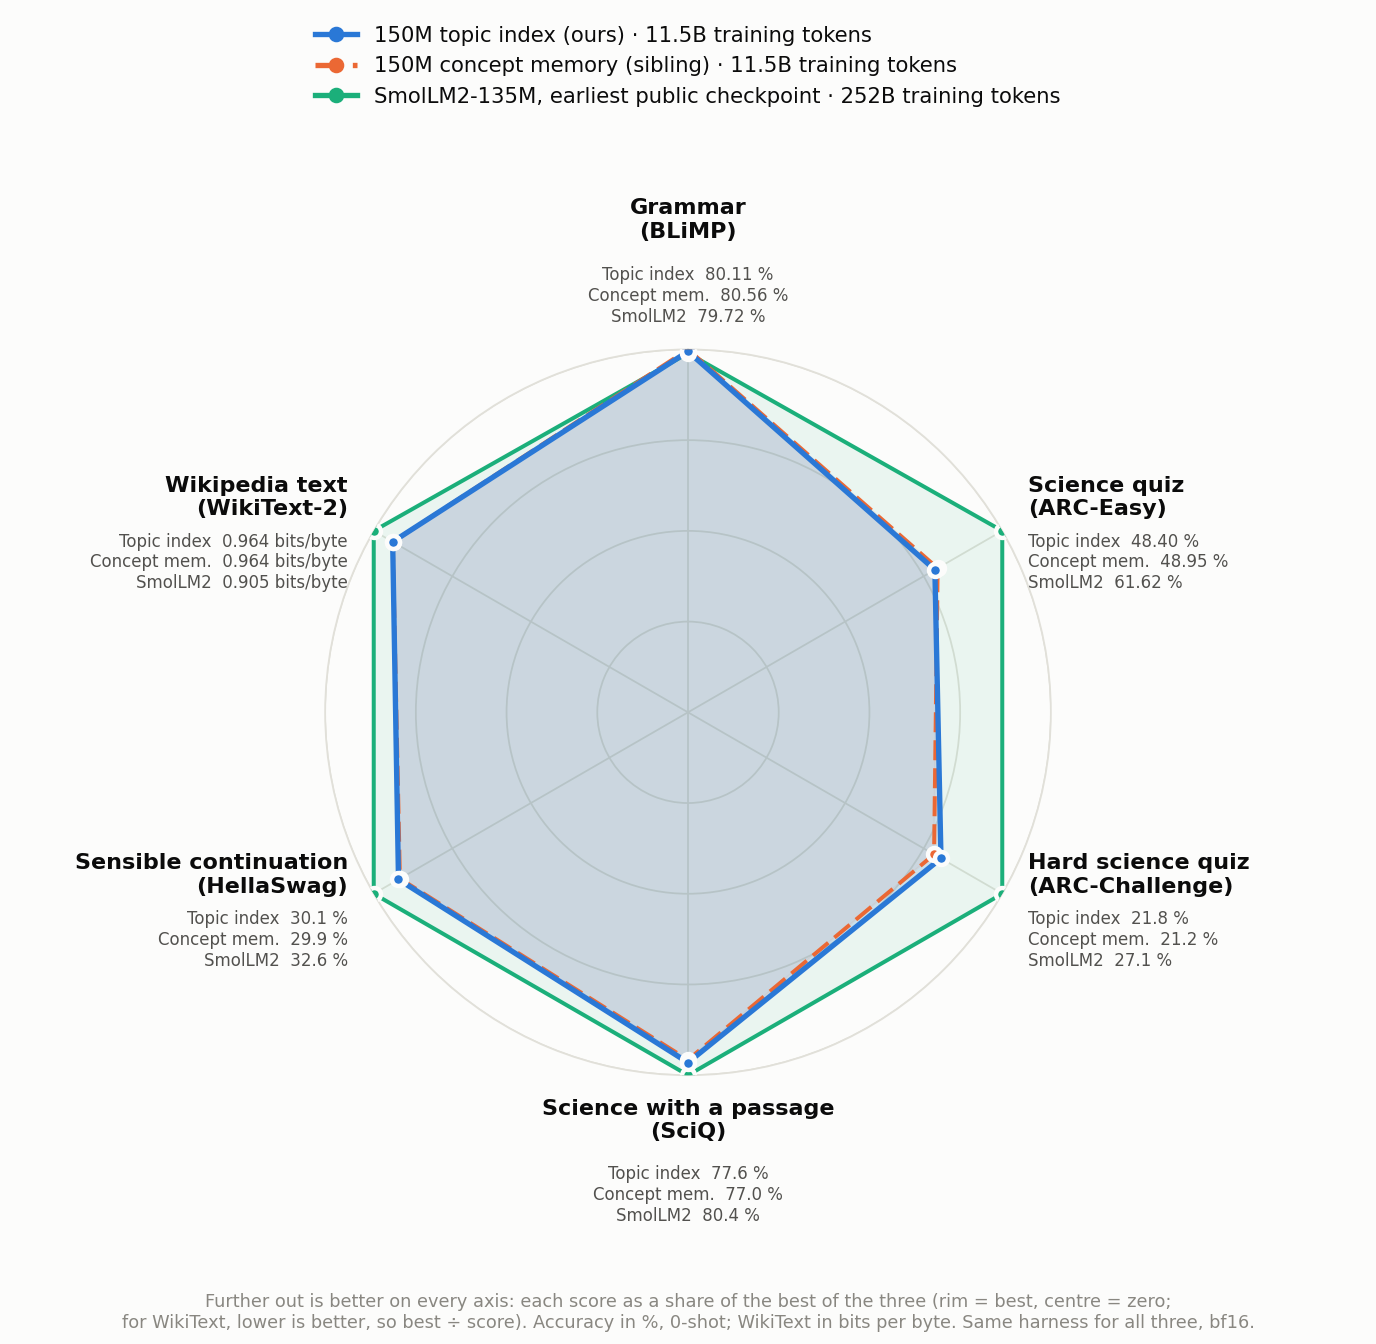
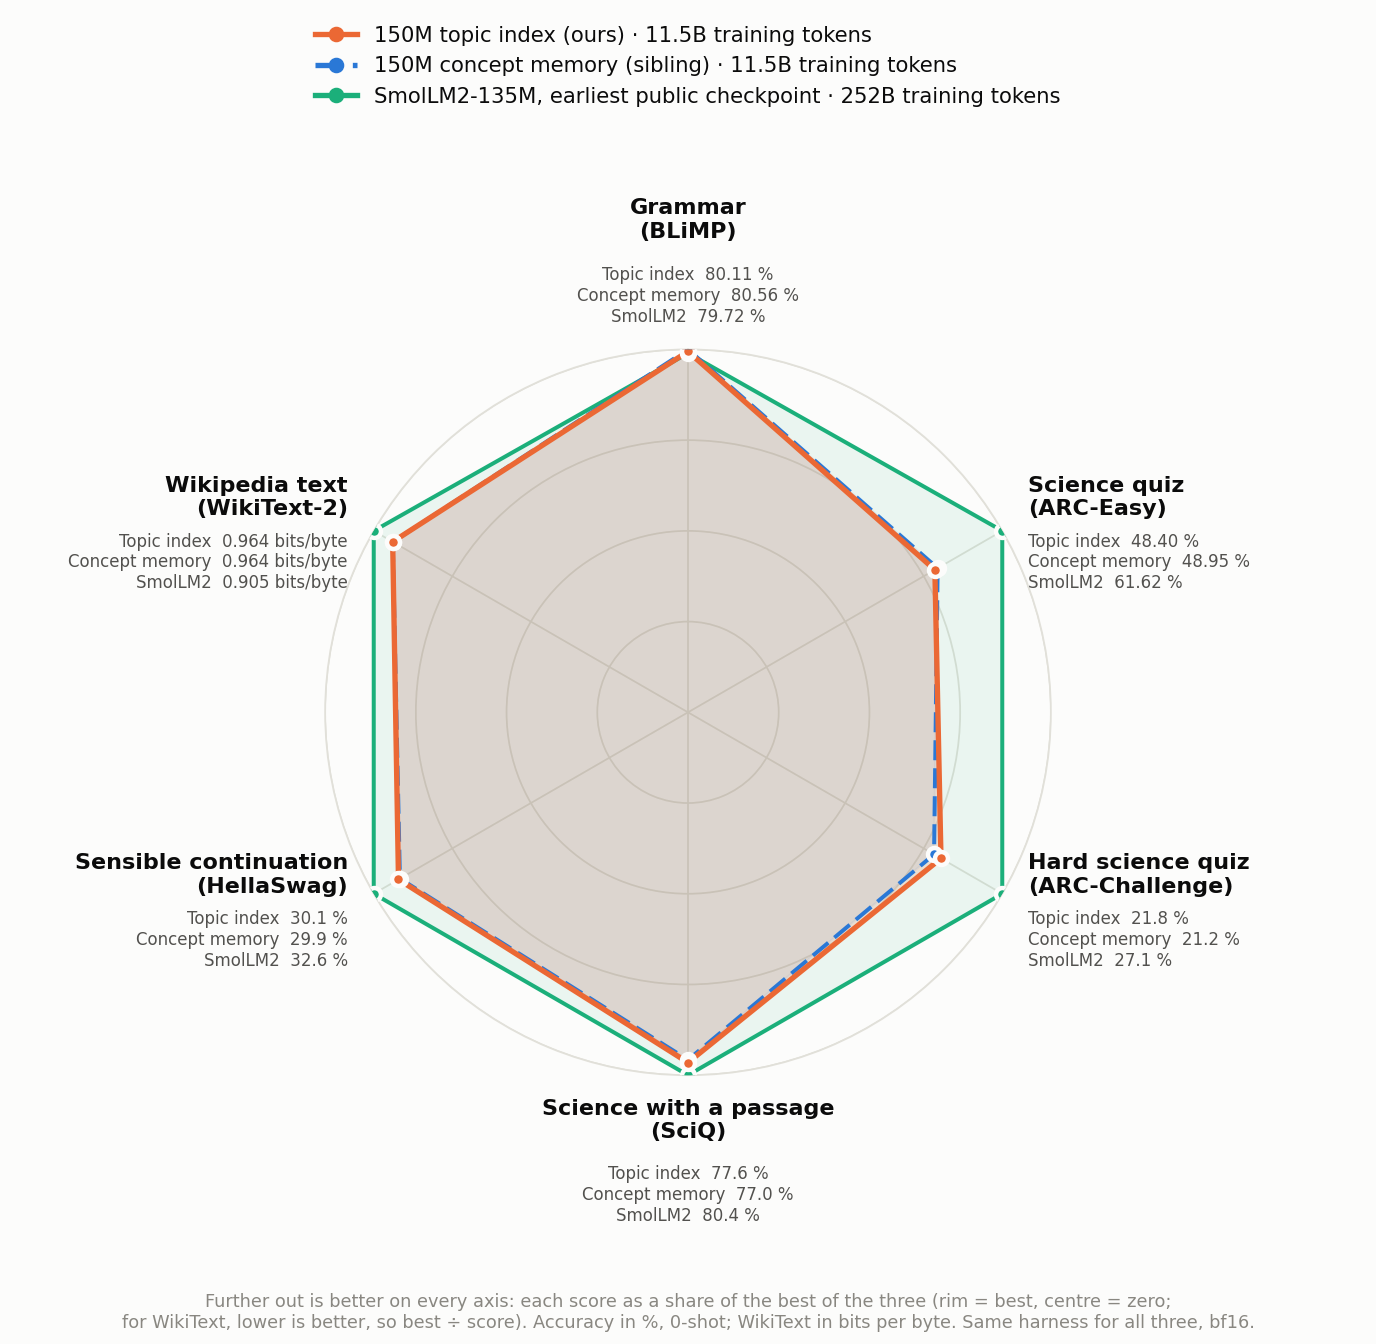
Shared figure script for both 150M cards: one colour per model (concept memory blue, topic index orange), ours solid, sibling dashed

diff --git a/docs/release/hf_card_topic_index_150m/figures/make_figures.py b/docs/release/hf_card_topic_index_150m/figures/make_figures.py
@@ -1,9 +1,12 @@
-"""Figures for the 150M topic index model card, drawn from the result files next to the card.
+"""Figures for the two sibling 150M model cards (concept memory, topic index), drawn from the result files next to
+the card. The same script ships with both cards; only CARD below differs.
 
-    python figures/make_figures.py          (from docs/release/hf_card_topic_index_150m)
+    python figures/make_figures.py          (from the card's folder)
 
-Same forms and settings as the sibling card (docs/release/hf_card_concept_memory_150m/figures/make_figures.py); here
-the topic index (our LSA model) is "ours" and its sibling, the 150M concept memory, is the second highlighted model.
+In each card "ours" is that card's model (solid line) and the other 150M model is its sibling (dashed); the two
+trained on the same data, in the same order, for the same budget, and differ only in the reading layer. Each model keeps
+one colour on every chart of both cards: concept memory blue, topic index orange, SmolLM2-135M aqua, other references
+grey (the dataviz skill's first three categorical slots, validated all-pairs on the light surface, 2026-11-18).
 
 radar.png        ours, the 150M concept memory and SmolLM2-135M at its earliest public checkpoint (~252B tokens) on
                  six standard benchmarks. Each axis is the model's score as a share of the best of the three (rim =
@@ -20,8 +23,8 @@ data_eff.png     score against training tokens (log scale): Pythia-160M's and Sm
                  (scored by us, same harness) and our two 150M models at 11.5B tokens.
 
 Colour follows the model on every chart: ours blue, the concept memory orange, SmolLM2-135M aqua, other references
-grey (the dataviz skill's first three categorical slots, validated all-pairs on the light surface, 2026-11-18).
-All numbers come from eval_results/, long_context/ and ruler/.
+All numbers come from eval_results/, long_context/ and ruler/: this card's model under plain names (ruler_*,
+compare_ours.json, e38_*), the sibling's with a cm_ / ti_ prefix (compare_concept_memory.json / compare_topic_index.json).
 """
 from __future__ import annotations
 
@@ -45,17 +48,23 @@ from summarise_compare import load as load_long, pooled  # noqa: E402
 
 SURFACE, INK, INK2, MUTED, GRID = "#fcfcfb", "#0b0b0b", "#52514e", "#898781", "#e1e0d9"
 BLUE, ORANGE, AQUA = "#2a78d6", "#eb6834", "#1baf7a"
-OURS = dict(name="150M topic index (ours)", board="e38_lsa150m_final", core7="e38_lsa150m_core7", long="compare_ours.json",
-            ruler="ruler_", tokens=11.5e9, color=BLUE, short="Topic index")
-SIB = dict(name="150M concept memory (sibling)", board="e38_mem150m_final", core7="e38_mem150m_core7",
-           long="compare_concept_memory.json", ruler="cm_ruler_", tokens=11.5e9, color=ORANGE, short="Concept mem.")
+CARD = "topic_index"  # this card's model: "topic_index" or "concept_memory" (the one line that differs between the cards)
+MODELS = {"concept_memory": dict(name="150M concept memory", board="e38_mem150m_final", core7="e38_mem150m_core7",
+                                 color=BLUE, short="Concept memory", prefix="cm_", file="compare_concept_memory.json",
+                                 ramp=["#f0f4fa", "#9ec5f4", "#3987e5", "#184f95"]),
+          "topic_index": dict(name="150M topic index", board="e38_lsa150m_final", core7="e38_lsa150m_core7",
+                              color=ORANGE, short="Topic index", prefix="ti_", file="compare_topic_index.json",
+                              ramp=["#fdf0e9", "#f6b896", "#eb6834", "#a3401b"])}
+_o, _s = MODELS[CARD], MODELS["concept_memory" if CARD == "topic_index" else "topic_index"]
+OURS = dict(_o, name=_o["name"] + " (ours)", long="compare_ours.json", ruler="ruler_", tokens=11.5e9)
+SIB = dict(_s, name=_s["name"] + " (sibling)", long=_s["file"], ruler=_s["prefix"] + "ruler_", tokens=11.5e9)
 SMOL = dict(name="SmolLM2-135M, earliest public checkpoint", board="ref_smollm2_135m_step240k_board",
             core7="ref_smollm2_135m_step240k_core7", tokens=240_000 * 1_048_576, color=AQUA, short="SmolLM2")
 SMOL_FINAL = dict(name="SmolLM2-135M", board="ref_smollm2_135m_board", tokens=2.0e12, color=AQUA)
 PYTH = dict(name="Pythia-160M", tokens=299.9e9, color=MUTED)
 # the long-document chart: (file, label, parameters, training tokens as reported, colour or None for grey)
-LONG = [("compare_ours.json", "Topic index (ours)", "141.5M", "11.5B", BLUE),
-        ("compare_concept_memory.json", "Concept memory (sibling)", "141.5M", "11.5B", ORANGE),
+LONG = [(OURS["long"], OURS["name"].replace("150M ", "").capitalize(), "141.5M", "11.5B", OURS["color"]),
+        (SIB["long"], SIB["name"].replace("150M ", "").capitalize(), "141.5M", "11.5B", SIB["color"]),
         ("compare_smollm2_step240k.json", "SmolLM2-135M, 252B checkpoint", "135M", "252B", None),
         ("compare_smollm2.json", "SmolLM2-135M final", "135M", "≈2T", None),
         ("compare_pythia.json", "Pythia-160M", "162M", "300B", None),
@@ -255,7 +264,7 @@ def ruler_heat() -> None:
     Ls = sorted(ours)
     M = np.array([[ours[x][t] for x in Ls] for t, _ in RULER_TASKS])
     fig, ax = plt.subplots(figsize=(5.6, 5.2))
-    cmap = matplotlib.colors.LinearSegmentedColormap.from_list("blue", ["#f0f4fa", "#9ec5f4", "#3987e5", "#184f95"])
+    cmap = matplotlib.colors.LinearSegmentedColormap.from_list("ours", OURS["ramp"])  # one hue: this model's colour
     ax.imshow(M, cmap=cmap, vmin=0, vmax=1, aspect="auto")
     for i in range(M.shape[0]):
         for j in range(M.shape[1]):
@@ -268,7 +277,7 @@ def ruler_heat() -> None:
     ax.tick_params(length=0)
     for sp in ax.spines.values():
         sp.set_visible(False)
-    ax.set_title("RULER, 150M topic index: share of expected answers found", fontsize=9.5, color=INK, loc="left")
+    ax.set_title(f"RULER, {_o['name']}:\nshare of expected answers found", fontsize=9.5, color=INK, loc="left")
     fig.tight_layout()
     fig.savefig(OUT / "ruler_heat.png", dpi=160)
     print("wrote ruler_heat.png")
@@ -300,17 +309,17 @@ def ruler_radar(L: int = 8192) -> None:
         ax.tick_params(axis="x", pad=2)
         lines = [(ruler_family(sc[L]), MUTED, 1.6, 2, "-")]
         if L in sib:
-            lines.append((ruler_family(sib[L]), ORANGE, 1.8, 3, (0, (5, 2))))
-        lines.append((ruler_family(ours[L]), BLUE, 2.4, 4, "-"))
+            lines.append((ruler_family(sib[L]), SIB["color"], 1.8, 3, (0, (5, 2))))
+        lines.append((ruler_family(ours[L]), OURS["color"], 2.4, 4, "-"))
         for vals, col, w, z, ls in lines:
             ax.fill(np.append(ang, ang[0]), vals + vals[:1], color=col, alpha=0.10, zorder=z - 1)
             ax.plot(np.append(ang, ang[0]), vals + vals[:1], color=col, linewidth=w, zorder=z, linestyle=ls)
             ax.scatter(ang, vals, s=18, color=col, edgecolor=SURFACE, linewidth=1.2, zorder=z + 1)
         ax.set_title(f"vs {lab} · {tok} tokens\nmean of 13: ours {np.mean(list(ours[L].values())):.2f}, "
                      f"it {np.mean(list(sc[L].values())):.2f}", fontsize=8.5, color=INK, pad=28)
-    handles = [plt.Line2D([], [], color=BLUE, linewidth=2.4, marker="o", label="150M topic index (ours) · 11.5B tokens"),
-               plt.Line2D([], [], color=ORANGE, linewidth=1.8, marker="o", linestyle=(0, (5, 2)),
-                          label="150M concept memory (sibling)"),
+    handles = [plt.Line2D([], [], color=OURS["color"], linewidth=2.4, marker="o", label=f"{OURS['name']} · 11.5B tokens"),
+               plt.Line2D([], [], color=SIB["color"], linewidth=1.8, marker="o", linestyle=(0, (5, 2)),
+                          label=SIB["name"]),
                plt.Line2D([], [], color=MUTED, linewidth=1.6, marker="o", label="the reference named above each chart")]
     fig.legend(handles=handles, loc="upper center", ncol=3, frameon=False, fontsize=9, bbox_to_anchor=(0.5, 1.0))
     fig.text(0.5, 0.01, f"RULER at {L // 1024}k tokens, 100 prompts per task, greedy, each task's own answer length; "
@@ -345,7 +354,7 @@ def long_docs() -> None:
         hi = col is not None
         ax.plot(xs, ys, color=col or MUTED, linewidth=2.6 if hi else 1.4, marker="o", markersize=6 if hi else 4,
                 markeredgecolor=SURFACE, markeredgewidth=1.5, zorder=4 if hi else 3,
-                linestyle=(0, (5, 2)) if col == ORANGE else "-")
+                linestyle=(0, (5, 2)) if fname == SIB["long"] else "-")
         end_labels.append((xs[-1], ys[-1], f"{label} · {params} · {tok} tokens   {ys[-1]:.3f}", col or MUTED, hi))
     end_labels.sort(key=lambda e: e[1])
     placed = []
@@ -418,9 +427,9 @@ def data_efficiency() -> None:
                         markersize=5, markeredgecolor=SURFACE, markeredgewidth=1.5, label=m["name"])
         if sib:
             # both at 11.5B tokens: drawn a little apart on the token axis so neither hides the other
-            ax.scatter([SIB["tokens"] / 1.12], [get(sib)], s=90, color=ORANGE, edgecolor=SURFACE, linewidth=2, zorder=5,
-                       label=SIB["name"], marker="D")
-        ax.scatter([OURS["tokens"] * 1.12], [get(ours)], s=90, color=BLUE, edgecolor=SURFACE, linewidth=2, zorder=6,
+            ax.scatter([SIB["tokens"] / 1.12], [get(sib)], s=90, color=SIB["color"], edgecolor=SURFACE, linewidth=2,
+                       zorder=5, label=SIB["name"], marker="D")
+        ax.scatter([OURS["tokens"] * 1.12], [get(ours)], s=90, color=OURS["color"], edgecolor=SURFACE, linewidth=2, zorder=6,
                    label=OURS["name"])
         ax.axvline(OURS["tokens"], color=GRID, linewidth=1, zorder=0)
         ax.set_xscale("log")
